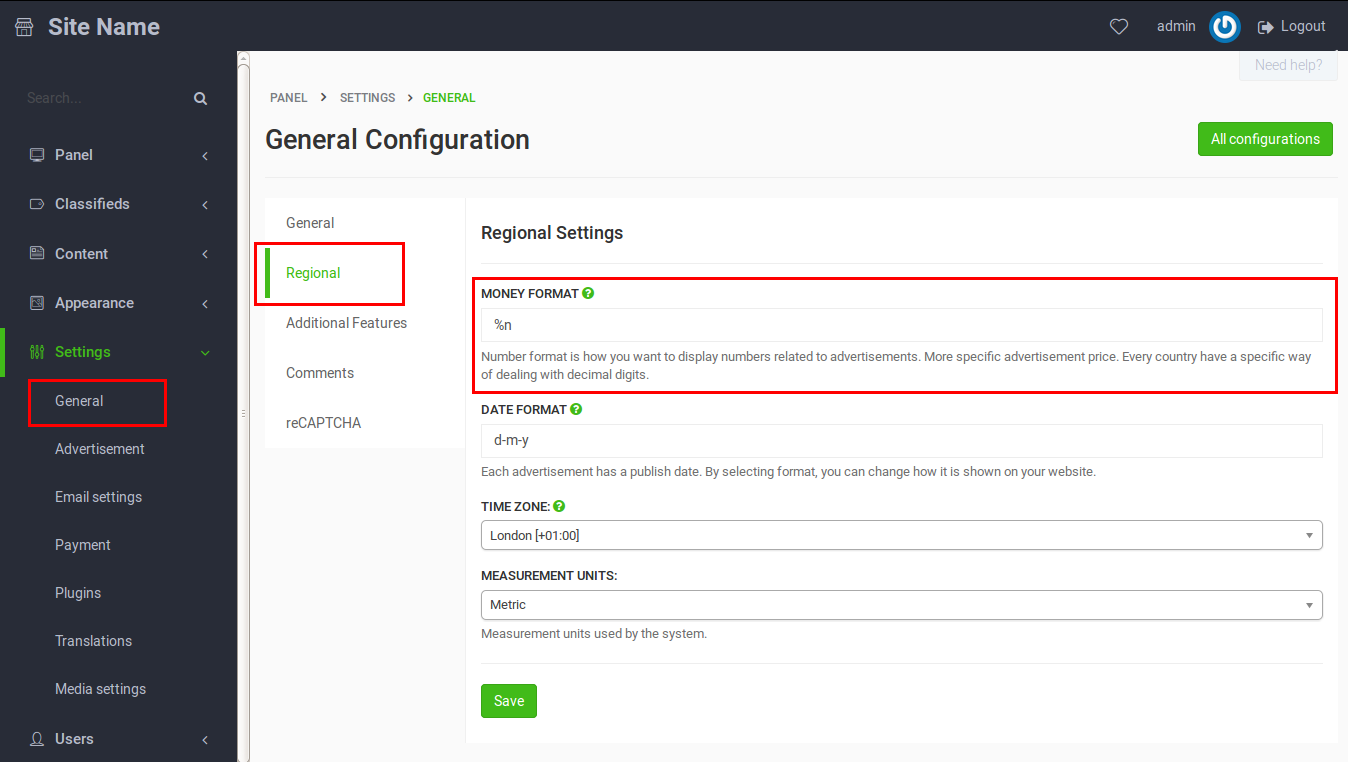
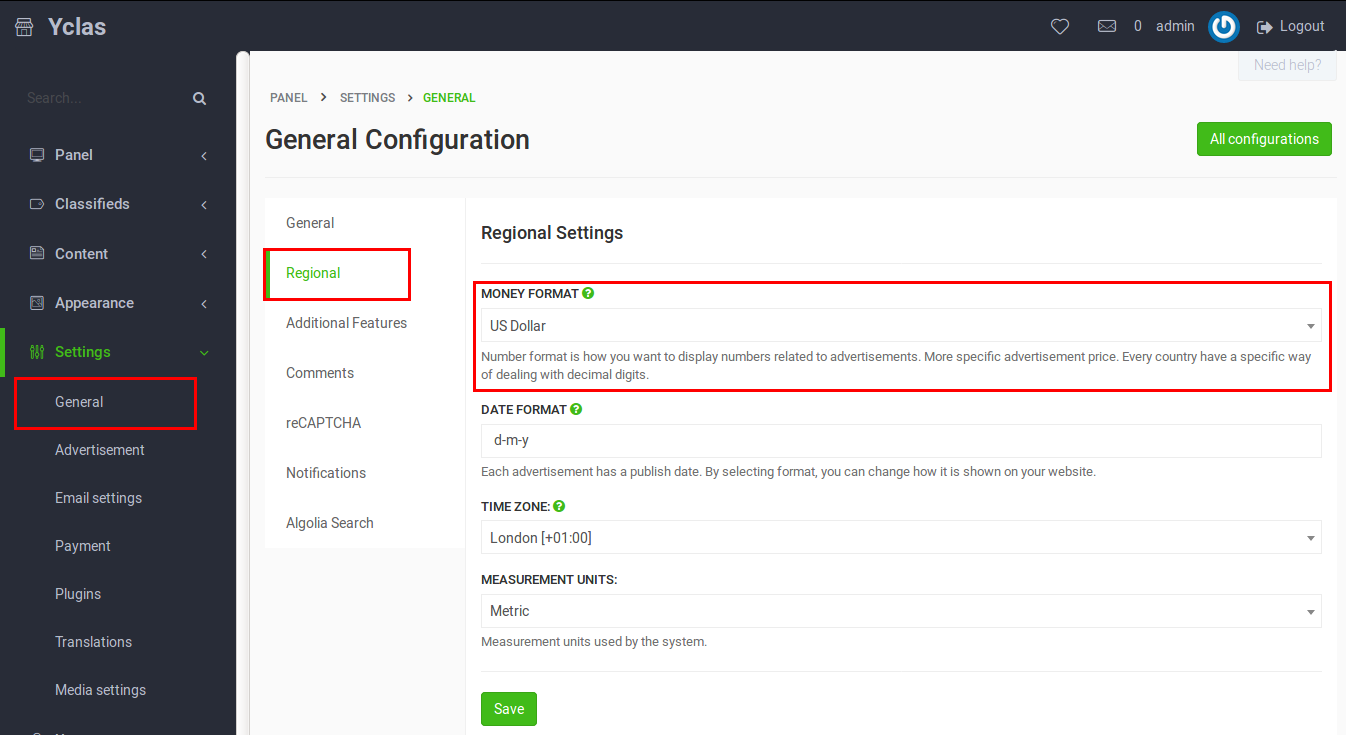
update guide

diff --git a/how-to-currency-format.md b/how-to-currency-format.md
@@ -12,7 +12,7 @@ One of the most commonly asked question by our users is how to deal with **curre
 
 ## How to do it
 
-You can go to **Settings** > **General** > **Regional** and input your preferred price format exactly the way the currency is represented, as in USD for United States Dollars, EUR for Euro, PLN for Polish Zloty and so on. Once you press update then the currency will show next to each amount.
+You can go to **Settings** > **General** > **Regional** and select your preferred currency. Once you press **Save** then the currency will show next to each amount.
 
 <a href="//docs.yclas.com/images/currency-format.png" class="thumbnail gallery-item" data-gallery>
 ![How to set the currency format](//docs.yclas.com/images/currency-format.png)
@@ -20,100 +20,111 @@ You can go to **Settings** > **General** > **Regional** and input your preferred
 
 ## List of currency formats
 
-+ **ARS**: Argentine Peso
-+ **AMD**: Armenian Dram
-+ **AWG**: Aruban Guilder
-+ **AUD**: Australian Dollar **AU$**
-+ **BSD**: Bahamian Dollar
-+ **BHD**: Bahraini Dinar
-+ **BDT**: Bangladesh, Taka
-+ **BZD**: Belize Dollar
-+ **BMD**: Bermudian Dollar
-+ **BOB**: Bolivia, Boliviano
-+ **BAM**: Bosnia and Herzegovina, Convertible Marks
-+ **BWP**: Botswana, Pula
-+ **BRL**: Brazilian Real **R$**
-+ **BND**: Brunei Dollar
-+ **CAD**: Canadian Dollar **CA$**
-+ **KYD**: Cayman Islands Dollar
-+ **CLP**: Chilean Peso
-+ **CNY**: China Yuan Renminbi **CN&yen;**
-+ **COP**: Colombian Peso
-+ **CRC**: Costa Rican Colon
-+ **HRK**: Croatian Kuna
-+ **CUC**: Cuban Convertible Peso
-+ **CUP**: Cuban Peso
-+ **CYP**: Cyprus Pound
-+ **CZK**: Czech Koruna **K&#269;**
-+ **DKK**: Danish Krone
-+ **DOP**: Dominican Peso
-+ **XCD**: East Caribbean Dollar **EC$**
-+ **EGP**: Egyptian Pound
-+ **SVC**: El Salvador Colon
-+ **EUR**: Euro **&euro;**
-+ **ESP**: Euro in spanish format
-+ **GHC**: Ghana, Cedi
-+ **GIP**: Gibraltar Pound
-+ **GTQ**: Guatemala, Quetzal
-+ **HNL**: Honduras, Lempira
-+ **HKD**: Hong Kong Dollar **HK$**
-+ **HUF**: Hungary, Forint **HK$**
-+ **ISK**: Iceland Krona
-+ **INR**: Indian Rupee **&#2352;**
-+ **IDR**: Indonesia, Rupiah
-+ **IRR**: Iranian Rial
-+ **JMD**: Jamaican Dollar
-+ **JPY**: Japan, Yen **&yen;**
-+ **JOD**: Jordanian Dinar
-+ **KES**: Kenyan Shilling
-+ **KWD**: Kuwaiti Dinar
-+ **LVL**: Latvian Lats
-+ **LBP**: Lebanese Pound
-+ **LTL**: Lithuanian Litas **Lt**
-+ **MKD**: Macedonia, Denar
-+ **MYR**: Malaysian Ringgit
-+ **MTL**: Maltese Lira
-+ **MUR**: Mauritius Rupee
-+ **MXN**: Mexican Peso **MX$**
-+ **MZM**: Mozambique Metical
-+ **NPR**: Nepalese Rupee
-+ **ANG**: Netherlands Antillian Guilder
-+ **ILS**: New Israeli Shekel **&#8362;**
-+ **TRY**: New Turkish Lira
-+ **NZD**: New Zealand Dollar **NZ$**
-+ **NOK**: Norwegian Krone **kr**
-+ **PKR**: Pakistan Rupee
-+ **PEN**: Peru, Nuevo Sol
-+ **UYU**: Peso Uruguayo
-+ **PHP**: Philippine Peso
-+ **PLN**: Poland, Zloty
-+ **GBP**: Pound Sterling **&pound;**
-+ **OMR**: Rial Omani
-+ **RON**: Romania, New Leu
-+ **ROL**: Romania, Old Leu
-+ **RUB**: Russian Ruble
-+ **SAR**: Saudi Riyal
-+ **SGD**: Singapore Dollar
-+ **SKK**: Slovak Koruna
-+ **SIT**: Slovenia, Tolar
-+ **ZAR**: South Africa, Rand **R**
-+ **KRW**: South Korea, Won **&#8361;**
-+ **SZL**: Swaziland, Lilangeni
-+ **SEK**: Swedish Krona **kr**
-+ **CHF**: Swiss Franc **SFr**
-+ **TZS**: Tanzanian Shilling
-+ **THB**: Thailand, Baht **&#3647;**
-+ **TOP**: Tonga, Paanga
-+ **AED**: UAE Dirham
-+ **UAH**: Ukraine, Hryvnia
-+ **USD**: US Dollar **$**
-+ **VUV**: Vanuatu, Vatu
-+ **VEF**: Venezuela Bolivares Fuertes
-+ **VEB**: Venezuela, Bolivar
-+ **VND**: Viet Nam, Dong **&#x20ab;**
-+ **ZWD**: Zimbabwe Dollar
++ **US Dollar**<br>
++ **Pound Sterling**<br>
++ **Euro**<br>
++ **Swiss Franc**<br>
++ **Japan, Yen**<br>
++ **Canadian Dollar**<br>
++ **Australian Dollar**<br>
++ **Euro in spanish format**<br>
++ **Norwegian Krone**<br>
++ **Argentine Peso**<br>
++ **Armenian Dram**<br>
++ **Aruban Guilder**<br>
++ **Bahamian Dollar**<br>
++ **Bahraini Dinar**<br>
++ **Bangladesh, Taka**<br>
++ **Belize Dollar**<br>
++ **Bermudian Dollar**<br>
++ **Bolivia, Boliviano**<br>
++ **Bosnia and Herzegovina, Convertible Marks**<br>
++ **Botswana, Pula**<br>
++ **Brazilian Real**<br>
++ **Brunei Dollar**<br>
++ **Cayman Islands Dollar**<br>
++ **Chilean Peso**<br>
++ **China Yuan Renminbi**<br>
++ **Colombian Peso**<br>
++ **Costa Rican Colon**<br>
++ **Croatian Kuna**<br>
++ **Cuban Convertible Peso**<br>
++ **Cuban Peso**<br>
++ **Cyprus Pound**<br>
++ **Czech Koruna**<br>
++ **XPF CFP franc**<br>
++ **Danish Krone**<br>
++ **Dominican Peso**<br>
++ **East Caribbean Dollar**<br>
++ **Egyptian Pound**<br>
++ **El Salvador Colon**<br>
++ **Old Ghana, Cedi**<br>
++ **Ghana, Cedi**<br>
++ **Gibraltar Pound**<br>
++ **Guatemala, Quetzal**<br>
++ **Honduras, Lempira**<br>
++ **Hong Kong Dollar**<br>
++ **Hungary, Forint**<br>
++ **Iceland Krona**<br>
++ **Indian Rupee ₹**<br>
++ **Indonesia, Rupiah**<br>
++ **Iranian Rial**<br>
++ **Jamaican Dollar**<br>
++ **Jordanian Dinar**<br>
++ **Kenyan Shilling**<br>
++ **Kuwaiti Dinar**<br>
++ **Latvian Lats**<br>
++ **Sri Lankan Rupee**<br>
++ **Lebanese Pound**<br>
++ **Lithuanian Litas**<br>
++ **Moroccan Dirham**<br>
++ **Macedonia, Denar**<br>
++ **Malaysian Ringgit**<br>
++ **Maltese Lira**<br>
++ **Mauritius Rupee**<br>
++ **Mexican Peso**<br>
++ **Mozambique Metical**<br>
++ **Nepalese Rupee**<br>
++ **Nigerian Naira**<br>
++ **Netherlands Antillian Guilder**<br>
++ **New Israeli Shekel ₪**<br>
++ **New Turkish Lira**<br>
++ **New Zealand Dollar**<br>
++ **Pakistan Rupee**<br>
++ **Peru, Nuevo Sol**<br>
++ **Peso Uruguayo**<br>
++ **Philippine Peso**<br>
++ **Poland, Zloty**<br>
++ **Rial Omani**<br>
++ **Romania, New Leu**<br>
++ **Romania, Old Leu**<br>
++ **Russian Ruble**<br>
++ **Saudi Riyal**<br>
++ **Singapore Dollar**<br>
++ **Slovak Koruna**<br>
++ **Slovenia, Tolar**<br>
++ **South Africa, Rand**<br>
++ **South Korea, Won ₩**<br>
++ **Swaziland, Lilangeni**<br>
++ **Swedish Krona**<br>
++ **Tanzanian Shilling**<br>
++ **Thailand, Baht ฿**<br>
++ **Tonga, Paanga**<br>
++ **UAE Dirham**<br>
++ **Ukraine, Hryvnia**<br>
++ **Vanuatu, Vatu**<br>
++ **Venezuela Bolivares Fuertes**<br>
++ **Venezuela, Bolivar**<br>
++ **Viet Nam, Dong ₫**<br>
++ **Zimbabwe Dollar**<br>
++ **Default** To use your chosen locale currency_<br>
++ **Without currency sign**<br>
++ **One decimal digit**<br>
++ **Two decimal digits**<br>
++ **Three decimal digits**<br>
++ **Four decimal digits**<br>
 
-## Hacks
+<!-- ## Hacks
 
 On **Panel**, **Settings** -> **General**, you can change the field **Money Format**
 
@@ -147,4 +158,4 @@ For a price of '5000', the output will be '5,000.00&#8358;' (if you set your loc
 [**Here's an array of the currency symbols!**](https://gist.github.com/Gibbs/3920259)
 
 You can have more than one currency by creating a [custom field]({{ site.baseurl }}/how-to-create-custom-fields) where sellers can enter the price in their local currency.
-
+ -->
